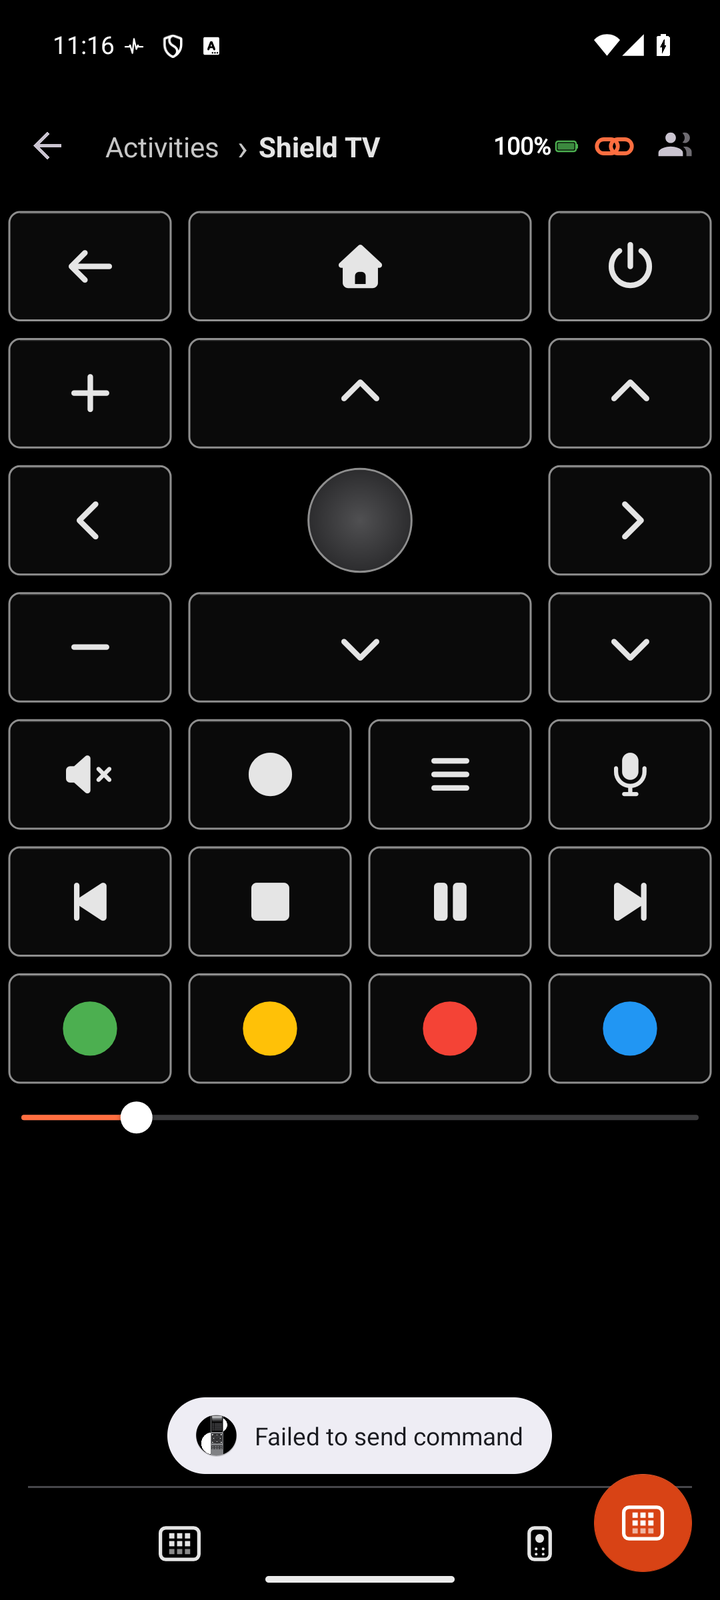
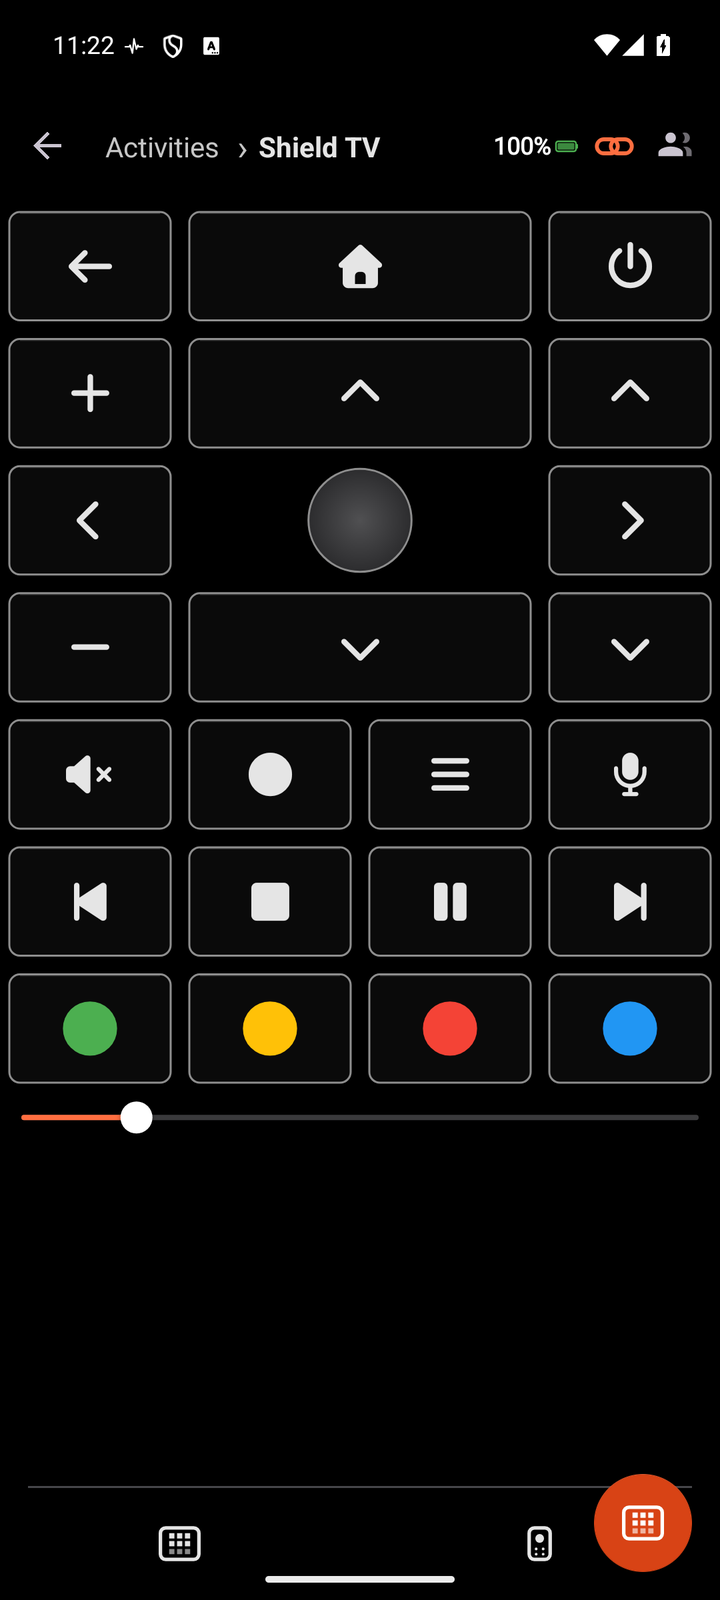
UC Remote page: re-shoot control-tiles screen, soften the integrations callout
- Replace the activity control-tiles screenshot with a fresh, error-free capture.
- Reword the open-source callout to be modest and factual (45+ integrations,
  active community contributor) rather than boastful.

Changed region(s): [[0.2139, 0.875, 0.7639, 0.9375], [0.1222, 0.0, 0.1528, 0.0312]]

diff --git a/uc-remote/index.html b/uc-remote/index.html
@@ -278,11 +278,11 @@
     <section style="background: linear-gradient(180deg, var(--bg-primary), var(--bg-secondary)); border-top:1px solid var(--border); border-bottom:1px solid var(--border);">
         <div class="container fade-in section-center">
             <div class="section-label">Open Source</div>
-            <h2 class="section-title">From Unfolded Circle's most prolific integration developer</h2>
+            <h2 class="section-title">Backed by 45+ open-source Unfolded Circle integrations</h2>
             <p class="section-desc">
-                UC Remote is built by Meir Miyara - the <strong>#1 open-source contributor to the Unfolded Circle platform</strong>,
-                with <strong>45+ community integrations</strong> driving AV receivers, media players, lighting, climate and more.
-                The very devices those integrations bring to your remote are the ones UC Remote puts at your fingertips.
+                UC Remote comes from Meir Miyara, an active open-source contributor in the Unfolded Circle community.
+                The <strong>45+ integrations</strong> he maintains - for AV receivers, media players, lighting, climate and more -
+                bring those devices to your remote, and UC Remote puts them at your fingertips.
             </p>
             <div class="hero-cta-group" style="margin-top:1.5rem;">
                 <a href="https://github.com/stars/mase1981/lists/unfolded-circle-integrations" class="hero-cta" target="_blank" rel="noopener">Explore the 45+ integrations ↗</a>